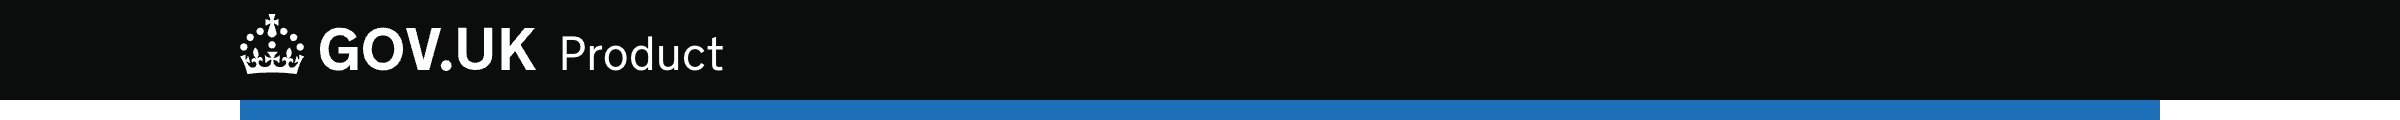
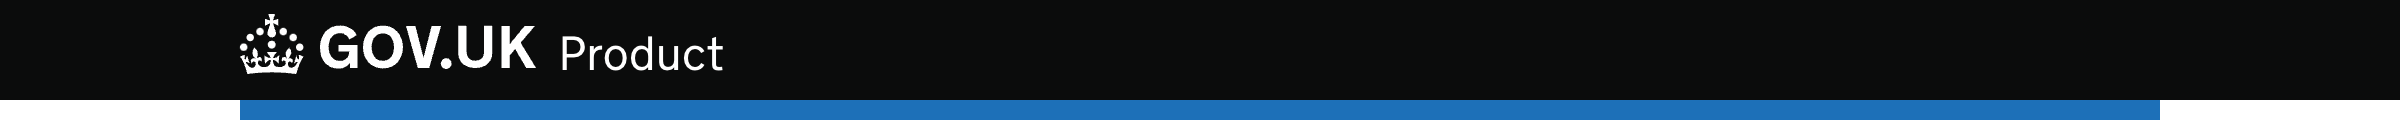
Upgrade to govuk-frontend 5.10.2

Changed region(s): [[0.0938, 0.4, 0.2188, 0.6], [0.0938, 0.2, 0.2188, 0.35], [0.125, 0.375, 0.1562, 0.4]]

diff --git a/src/GovUk.Frontend.AspNetCore/TagHelpers/HeaderTagHelper.cs b/src/GovUk.Frontend.AspNetCore/TagHelpers/HeaderTagHelper.cs
@@ -1,6 +1,7 @@
 using System.Text.Encodings.Web;
 using GovUk.Frontend.AspNetCore.ComponentGeneration;
 using Microsoft.AspNetCore.Razor.TagHelpers;
+using Microsoft.Extensions.Options;
 
 namespace GovUk.Frontend.AspNetCore.TagHelpers;
 
@@ -18,17 +19,23 @@ public class HeaderTagHelper : TagHelper
     private const string ProductNameAttributeName = "product-name";
 
     private readonly IComponentGenerator _componentGenerator;
+    private readonly IOptions<GovUkFrontendOptions> _optionsAccessor;
     private readonly HtmlEncoder _encoder;
 
     /// <summary>
     /// Creates a new <see cref="HeaderTagHelper"/>.
     /// </summary>
-    public HeaderTagHelper(IComponentGenerator componentGenerator, HtmlEncoder encoder)
+    public HeaderTagHelper(
+        IComponentGenerator componentGenerator,
+        IOptions<GovUkFrontendOptions> optionsAccessor,
+        HtmlEncoder encoder)
     {
         ArgumentNullException.ThrowIfNull(componentGenerator);
+        ArgumentNullException.ThrowIfNull(optionsAccessor);
         ArgumentNullException.ThrowIfNull(encoder);
 
         _componentGenerator = componentGenerator;
+        _optionsAccessor = optionsAccessor;
         _encoder = encoder;
     }
 
@@ -80,7 +87,8 @@ public class HeaderTagHelper : TagHelper
             ContainerAttributes = containerAttributes,
             Classes = classes,
             Attributes = attributes,
-            UseTudorCrown = true
+            UseTudorCrown = true,
+            Rebrand = _optionsAccessor.Value.Rebrand
         });
 
         output.ApplyComponentHtml(component, _encoder);

diff --git a/tests/GovUk.Frontend.AspNetCore.Tests/ComponentGeneration/DefaultComponentGeneratorTests.cs b/tests/GovUk.Frontend.AspNetCore.Tests/ComponentGeneration/DefaultComponentGeneratorTests.cs
@@ -135,14 +135,16 @@ public class DefaultComponentGeneratorTests
                 }
 
                 return html;
-            });
+            },
+            compareWhitespace: false);
 
     [Theory]
     [ComponentFixtureData("header", typeof(HeaderOptions))]
     public Task Header(ComponentTestCaseData<HeaderOptions> data) =>
         CheckComponentHtmlMatchesExpectedHtml(
             data,
-            (generator, options) => generator.GenerateHeaderAsync(options));
+            (generator, options) => generator.GenerateHeaderAsync(options),
+            compareWhitespace: false);
 
     [Theory]
     [ComponentFixtureData("hint", typeof(HintOptions))]
@@ -226,7 +228,10 @@ public class DefaultComponentGeneratorTests
             amendExpectedHtml: html => html.Replace("–", "&#x2013;"));
 
     [Theory]
-    [ComponentFixtureData("service-navigation", typeof(ServiceNavigationOptions))]
+    [ComponentFixtureData(
+        "service-navigation",
+        typeof(ServiceNavigationOptions),
+        exclude: ["with navigation having empty values", "with navigation having only empty values"])]
     public Task ServiceNavigation(ComponentTestCaseData<ServiceNavigationOptions> data) =>
         CheckComponentHtmlMatchesExpectedHtml(
             data,

diff --git a/tests/GovUk.Frontend.AspNetCore.Tests/PageTemplateHelperTests.cs b/tests/GovUk.Frontend.AspNetCore.Tests/PageTemplateHelperTests.cs
@@ -77,7 +77,7 @@ public class PageTemplateHelperTests
         var result = pageTemplateHelper.GetCspScriptHashes();
 
         // Assert
-        Assert.Equal("'sha256-zOCo0thG2tzE19sia5AxxXH9Fkh4uQ+2OJ80SdH04gg=' 'sha256-GUQ5ad8JK5KmEWmROf3LZd9ge94daqNvd8xy9YS1iDw='", result);
+        Assert.Equal("'sha256-SBBj6o+TxGUiRMcBX1tNVX4Yzp80v3ZT9G0gxDoWSq0=' 'sha256-GUQ5ad8JK5KmEWmROf3LZd9ge94daqNvd8xy9YS1iDw='", result);
     }
 
     [Fact]
@@ -105,7 +105,7 @@ public class PageTemplateHelperTests
         var result = pageTemplateHelper.GetInitScriptCspHash();
 
         // Assert
-        Assert.Equal("'sha256-zOCo0thG2tzE19sia5AxxXH9Fkh4uQ+2OJ80SdH04gg='", result);
+        Assert.Equal("'sha256-SBBj6o+TxGUiRMcBX1tNVX4Yzp80v3ZT9G0gxDoWSq0='", result);
     }
 
     [Fact]

diff --git a/src/GovUk.Frontend.AspNetCore/ComponentGeneration/HeaderOptions.cs b/src/GovUk.Frontend.AspNetCore/ComponentGeneration/HeaderOptions.cs
@@ -20,6 +20,7 @@ public record HeaderOptions
     public TemplateString? Classes { get; set; }
     public AttributeCollection? Attributes { get; set; }
     public bool? UseTudorCrown { get; set; }
+    public bool? Rebrand { get; set; }
 
     [NonStandardParameter]
     public AttributeCollection? ContainerAttributes { get; set; }

diff --git a/src/GovUk.Frontend.AspNetCore/GovUkFrontendOptions.cs b/src/GovUk.Frontend.AspNetCore/GovUkFrontendOptions.cs
@@ -119,6 +119,8 @@ public class GovUkFrontendOptions
     /// </remarks>
     public bool PrependErrorToTitle { get; set; }
 
+    public bool Rebrand { get; set; }
+
     /// <summary>
     /// Registers a <see cref="DateInputModelConverter"/> for the specified <see cref="Type"/>.
     /// </summary>

diff --git a/src/GovUk.Frontend.AspNetCore/ComponentGeneration/FooterOptions.cs b/src/GovUk.Frontend.AspNetCore/ComponentGeneration/FooterOptions.cs
@@ -11,6 +11,7 @@ public record FooterOptions
     public TemplateString? ContainerClasses { get; set; }
     public TemplateString? Classes { get; set; }
     public AttributeCollection? Attributes { get; set; }
+    public bool? Rebrand { get; set; }
 }
 
 public record FooterOptionsMeta

diff --git a/samples/Samples.MvcStarter/Program.cs b/samples/Samples.MvcStarter/Program.cs
@@ -8,6 +8,8 @@ builder.Services.AddControllersWithViews();
 
 builder.Services.AddGovUkFrontend(options =>
 {
+    options.Rebrand = false;
+
     // Un-comment this block if you want to use a CSP nonce instead of hashes
     //options.GetCspNonceForRequest = context =>
     //{

diff --git a/README.md b/README.md
@@ -1,5 +1,5 @@
 
-[![GOV.UK Design System version](https://img.shields.io/badge/GOV.UK%20Design%20System-5.9.0-brightgreen)](https://github.com/alphagov/govuk-frontend/releases/tag/v5.9.0)
+[![GOV.UK Design System version](https://img.shields.io/badge/GOV.UK%20Design%20System-5.10.2-brightgreen)](https://github.com/alphagov/govuk-frontend/releases/tag/v5.10.2)
 [![CI](https://github.com/x-govuk/govuk-frontend-aspnetcore/workflows/ci/badge.svg)](https://github.com/x-govuk/govuk-frontend-aspnetcore/actions/workflows/ci.yml)
 [![NuGet Downloads](https://img.shields.io/nuget/dt/GovUk.Frontend.AspNetCore)](https://www.nuget.org/packages/GovUk.Frontend.AspNetCore)
 
